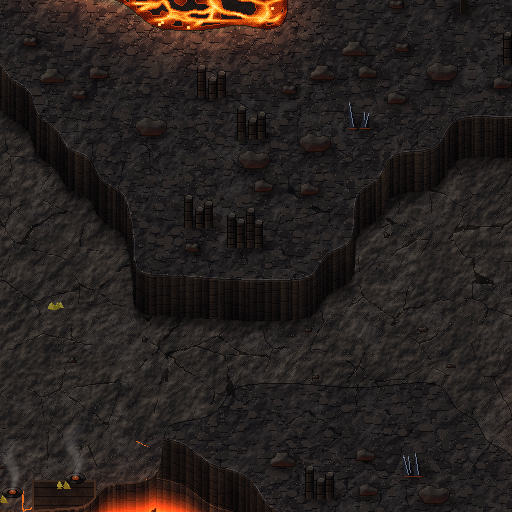
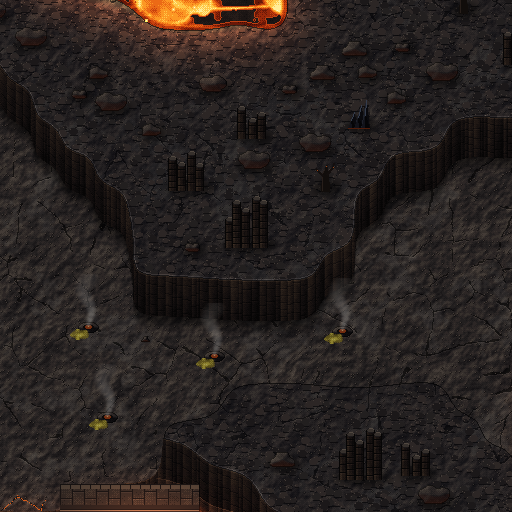
Vulcão: cenário mais organizado
- Pontes de pedra de verdade (lajes, parapeitos e arco sobre a lava) no lugar do bloco de tábuas
- Obsidiana em blocos escuros, sem os 'palitos' brancos; menos espalhada
- Rachaduras acesas finas, enxofre como crosta, chão sem riscos diagonais, bem menos miudezas
- Barreira das passagens agora é um muro de blocos de basalto com fissuras acesas

Claude-Session: https://claude.ai/code/session_019r29ZVD3cqF2PF6pdahmsD

diff --git a/Projeto atualizado/sw.js b/Projeto atualizado/sw.js
@@ -1,4 +1,4 @@
-const CACHE = "ded-web-v4.61.0-vulcao-vivo";
+const CACHE = "ded-web-v4.61.1-vulcao-limpo";
 
 self.addEventListener("install", () => self.skipWaiting());
 

diff --git a/sw.js b/sw.js
@@ -1,4 +1,4 @@
-const CACHE = "ded-web-v4.61.0-vulcao-vivo";
+const CACHE = "ded-web-v4.61.1-vulcao-limpo";
 
 self.addEventListener("install", () => self.skipWaiting());
 

diff --git a/scripts/build_volcano_map.py b/scripts/build_volcano_map.py
@@ -89,18 +89,25 @@ def boulder(seed, w, h):
 
 
 def obsidian(seed, w=22, h=26):
+    """bloco de obsidiana: vidro preto lascado, facetas largas, reflexo discreto"""
     r = np.random.RandomState(seed)
     im = Image.new("RGBA", (w, h))
     d = ImageDraw.Draw(im)
-    for _ in range(r.randint(2, 4)):
-        cx, ch, cw, ln = r.randint(min(6, w // 2 - 1), max(7, w - 6)), r.randint(h // 2, h - 2), r.randint(6, 10), r.uniform(-.25, .25)
+    n = r.randint(2, 4)
+    for i in range(n):
+        cw = r.randint(max(7, w // 3), max(8, w // 2 + 2))
+        cx = int(w * (i + .5) / n + r.randint(-2, 3))
+        ch = r.randint(h // 2, h - 1)
         base = h - 1
-        tip = (cx + ln * ch, base - ch)
-        d.polygon([(cx - cw / 2, base), (cx, base - 2), tip], fill=OBS[3])
-        d.polygon([(cx, base - 2), (cx + cw / 2, base), tip], fill=OBS[1])
-        d.line([(cx, base - 2), tip], fill=OBS[5])
-        d.point([(tip[0], tip[1] + 2)], fill=OBS[6])
-        d.line([(cx - cw / 2, base), (cx + cw / 2, base)], fill=(150, 60, 24))
+        tip = (cx + r.randint(-3, 4), base - ch)
+        L, Rr = (cx - cw / 2, base), (cx + cw / 2, base)
+        mid = (cx + r.randint(-1, 2), base - ch * .45)
+        d.polygon([L, mid, tip], fill=OBS[3])
+        d.polygon([L, mid, (cx, base)], fill=OBS[2])
+        d.polygon([mid, Rr, tip], fill=OBS[1])
+        d.polygon([(cx, base), Rr, mid], fill=OBS[0])
+        d.line([mid, tip], fill=OBS[4])
+        d.line([L, (cx, base), Rr], fill=(120, 44, 18))
     return im
 
 
@@ -149,14 +156,15 @@ def vent(seed):
 
 
 def sulfur(seed):
-    r = np.random.RandomState(seed)
-    im = Image.new("RGBA", (18, 12))
-    d = ImageDraw.Draw(im)
-    for _ in range(6):
-        x, y, s = r.randint(2, 15), r.randint(5, 10), r.randint(2, 4)
-        d.polygon([(x - s, y + 1), (x, y - s - 1), (x + s, y + 1)], fill=SULF[r.randint(1, 3)])
-        d.point([(x, y - s)], fill=SULF[3])
-    return im
+    w, h = 20, 12
+    yy0, xx0 = np.mgrid[0:h, 0:w]
+    n0 = vnoise(h, w, 3, seed)
+    m = (((xx0 - w / 2) / (w / 2)) ** 2 + ((yy0 - h / 2) / (h / 2)) ** 2 < .9 + (n0 - .5) * .6)
+    v = np.clip(.25 + n0 * .8 - ((xx0 - w / 2) ** 2 + (yy0 - h / 2) ** 2) / (w * w / 4) * .4, 0, 1)
+    a0 = np.zeros((h, w, 4), np.uint8)
+    a0[..., :3] = ramp(SULF, v, yy0, xx0)
+    a0[..., 3] = (m * np.clip(.35 + v, 0, 1) * 255).astype(np.uint8)
+    return Image.fromarray(a0)
 
 
 def stump(seed):
@@ -189,13 +197,17 @@ def lava_pool(seed, w=46, h=24):
 
 
 def barrier(horizontal):
-    """obsidiana que brota do chão quando a passagem se tranca"""
-    w, h = (64, 46) if horizontal else (36, 76)
+    """muro de blocos de basalto que sobe do chão quando a passagem se tranca"""
+    w, h = (68, 44) if horizontal else (38, 78)
     im = Image.new("RGBA", (w, h))
-    spots = [(2, 18), (18, 12), (32, 20), (44, 14)] if horizontal else [(2, 2), (6, 22), (0, 42), (8, 52)]
-    for k, (x, y) in enumerate(spots):
-        o = obsidian(100 + k, 22, 30)
-        im.alpha_composite(o, (min(x, w - o.width), min(y, h - o.height)))
+    spots = [(0, 16, 26, 26), (20, 10, 28, 32), (42, 16, 26, 26)] if horizontal else [(2, 0, 34, 26), (0, 22, 38, 30), (2, 48, 34, 28)]
+    for k, (x, y, bw, bh) in enumerate(spots):
+        im.alpha_composite(boulder(600 + k, bw, bh), (x, y))
+    d = ImageDraw.Draw(im)
+    for k, (x, y, bw, bh) in enumerate(spots):
+        cx, cy = x + bw // 2, y + bh // 2
+        d.line([(cx - 4, cy - 2), (cx, cy + 1), (cx + 3, cy - 1), (cx + 5, cy + 3)], fill=(240, 110, 30))
+        d.point([(cx, cy + 1)], fill=(255, 220, 120))
     return im
 
 
@@ -714,14 +726,14 @@ img = np.zeros((H, W, 3), np.float32)
 # — chão: basalto, cinzas, cascalho, rachaduras secas
 rope = np.sin((yy * .9 + np.sin(xx / 9. + n1 * 6) * 5 + n2 * 20) * 1.1)
 flowz = fbm(H, W, 77, ((60, 1.),)) > .6
-bump = ndimage.gaussian_filter(tex, 1) + rope * .02 * flowz
+bump = ndimage.gaussian_filter(tex, 1)
 gy, gx = np.gradient(bump)
 lit = np.clip(.5 - (gx * -.6 + gy * -.8) * 9, 0, 1)
 v = np.clip(.2 + lit * .45 + tex * .35, 0, 1)
 ground = ramp(ROCK, v, yy, xx)
 ashn = fbm(H, W, 11, ((30, .5), (9, .3), (3, .2)))
-ash = (ashn > .6) & (nrs.rand(H, W) < np.clip((ashn - .6) * 6, 0, .85))
-ground[ash] = ground[ash] * .55 + ramp(ASH, np.clip(v[ash] * .8, 0, 1), yy[ash], xx[ash]) * .45
+aw = np.clip((ashn - .58) * 3.2, 0, .42)[..., None]
+ground = ground * (1 - aw) + ramp(ASH, np.clip(v * .8, 0, 1), yy, xx) * aw
 # rachaduras (voronoi deformado), algumas incandescentes perto da lava
 pts = nrs.rand(2600, 2) * [W, H]
 sel = FLOOR | TOP
@@ -738,7 +750,7 @@ ground[peb] = np.array(ROCK[7])
 peb2 = (np.roll(peb, 1, 0) | np.roll(peb, 1, 1)) & ~peb
 ground[peb2] *= .6
 distLV = ndimage.distance_transform_edt(~LV)
-hotc = crk & (distLV < 70) & (fbm(H, W, 18, ((20, 1.),)) > .48) & FLOOR
+hotc = (ee < .45) & crk & (distLV < 56) & (fbm(H, W, 18, ((20, 1.),)) > .55) & FLOOR
 img[:] = ground
 
 # — platô: um pouco mais claro e frio + lábio
@@ -836,25 +848,77 @@ rimA = ndimage.binary_dilation(LV, iterations=4) & FLOOR
 rimB = ndimage.binary_dilation(LV, iterations=1) & FLOOR
 img[rimA] = img[rimA] * .4 + np.array(FACE[0]) * .6
 img[rimB] = (110, 30, 12)
-img[hotc] = (236, 110, 30)
+img[hotc] = (214, 92, 26)
 
 # — pontes de basalto sobre a lava (chão caminhável dentro de um rio)
-BRp = BR & FLOOR
-if BRp.any():
-    bc = ramp(FACE, np.clip(.45 + (tex - .5) * .4, 0, 1), yy, xx)
-    img[BRp] = bc[BRp]
-    for y in range(0, H, 9):
-        row = BRp[y]
-        img[y, row] = np.array(FACE[1])
-    be = BRp & ~ndimage.binary_erosion(BRp, iterations=2)
-    img[be] = np.array(FACE[6])
-    # abaixo da ponte (visto de frente): a borda sul da ponte
-    bf = np.zeros_like(BRp)
-    for k in range(1, 7):
-        s2 = np.zeros_like(BRp)
-        s2[k:] = BRp[:-k]
-        bf |= s2 & LV
-    img[bf] = img[bf] * .2 + np.array(FACE[2]) * .8
+BRp = np.zeros((H, W), bool)
+STONE = [(30, 26, 26), (44, 38, 36), (60, 52, 48), (78, 68, 60), (98, 86, 74), (120, 106, 90)]
+labB, nB = ndimage.label(bridgeT)
+for k in range(1, nB + 1):
+    rr_, cc_ = np.nonzero(labB == k)
+    c0, c1, r0, r1 = cc_.min(), cc_.max(), rr_.min(), rr_.max()
+    vertical = (r1 - r0) >= (c1 - c0)
+    if vertical:
+        x0, x1 = c0 * T + 2, (c1 + 1) * T - 2
+        band = LZ[:, x0:x1].any(1)
+        ys = np.nonzero(band[r0 * T - 3 * T:(r1 + 1) * T + 3 * T])[0] + r0 * T - 3 * T
+        if not len(ys):
+            continue
+        y0, y1 = ys.min() - 8, ys.max() + 10
+    else:
+        y0, y1 = r0 * T + 4, (r1 + 1) * T - 2
+        band = LZ[y0:y1, :].any(0)
+        xs = np.nonzero(band[c0 * T - 3 * T:(c1 + 1) * T + 3 * T])[0] + c0 * T - 3 * T
+        if not len(xs):
+            continue
+        x0, x1 = xs.min() - 8, xs.max() + 8
+    sub_y, sub_x = np.mgrid[y0:y1, x0:x1]
+    # tabuleiro: lajes de pedra desencontradas
+    v = .45 + (tex[y0:y1, x0:x1] - .5) * .35
+    deck = ramp(STONE, np.clip(v, 0, 1), sub_y, sub_x)
+    if vertical:
+        joint_r = ((sub_y - y0) % 12 == 0)
+        joint_c = (((sub_x - x0) + ((sub_y - y0) // 12) * 9) % 18 == 0)
+    else:
+        joint_c = ((sub_x - x0) % 12 == 0)
+        joint_r = (((sub_y - y0) + ((sub_x - x0) // 12) * 7) % 14 == 0)
+    deck[joint_r | joint_c] = np.array(STONE[0])
+    hl = np.roll(joint_r | joint_c, 1, 0) & ~(joint_r | joint_c)
+    deck[hl] = np.minimum(255, deck[hl] * 1.25)
+    img[y0:y1, x0:x1] = deck
+    BRp[y0:y1, x0:x1] = True
+    # parapeitos laterais
+    if vertical:
+        for xa, xb, lit in ((x0, x0 + 5, True), (x1 - 5, x1, False)):
+            img[y0:y1, xa:xb] = np.array(STONE[4 if lit else 1])
+            img[y0:y1, xa] = np.array(STONE[0])
+            img[y0:y1, xb - 1] = np.array(STONE[0])
+            for yb in range(y0, y1, 10):
+                img[yb, xa:xb] = np.array(STONE[0])
+        # face frontal com arco sobre a lava
+        fy0, fy1 = y1, min(H, y1 + 14)
+        fx = np.arange(x0, x1)
+        img[fy0:fy1, x0:x1] = np.array(STONE[1])
+        cx_, rw = (x0 + x1) / 2, (x1 - x0) / 2 - 7
+        for yy2 in range(fy0, fy1):
+            t = (yy2 - fy0) / 14
+            inside = np.abs(fx - cx_) < rw * np.sqrt(max(0, t * 1.4 - .1))
+            img[yy2, x0:x1][inside] = img[yy2, x0:x1][inside] * .3 + np.array([230, 90, 24]) * .7 * t
+        img[fy0, x0:x1] = np.array(STONE[5])
+        BRp[fy0:fy1, x0:x1] = True
+    else:
+        img[y0:y0 + 5, x0:x1] = np.array(STONE[4])
+        img[y0, x0:x1] = np.array(STONE[0])
+        img[y1 - 5:y1, x0:x1] = np.array(STONE[1])
+        img[y1 - 1, x0:x1] = np.array(STONE[0])
+        for xb in range(x0, x1, 10):
+            img[y0:y0 + 5, xb] = np.array(STONE[0])
+        fy0, fy1 = y1, min(H, y1 + 10)
+        img[fy0:fy1, x0:x1] = np.array(STONE[1])
+        img[fy0, x0:x1] = np.array(STONE[5])
+        BRp[fy0:fy1, x0:x1] = True
+LV &= ~BRp
+FC &= ~BRp
 # — correntes rasas de magma no chão (caminháveis, queimam)
 sm = Image.new("L", (W, H), 0)
 sd = ImageDraw.Draw(sm)
@@ -868,7 +932,7 @@ for pl, hw in STREAMS:
     for (a0, b0), (a1, b1) in zip(pts, pts[1:]):
         sd.line([(a0, b0), (a1, b1)], fill=255, width=int(hw * 1.5))
 STR = (ndimage.gaussian_filter(np.asarray(sm, np.float32) / 255, 3) + (fbm(H, W, 95, ((10, .6), (4, .4))) - .5) * .45) > .5
-STR &= FLOOR & ~BR
+STR &= FLOOR & ~BR & ~BRp
 sin_ = ndimage.distance_transform_edt(STR)
 heat2 = np.clip(.3 + sin_ / 6 * .55 + (fbm(H, W, 96, ((8, .6), (3, .4))) - .5) * .5, 0, 1)
 sl = ramp(LAVA, heat2, yy, xx)
@@ -924,7 +988,7 @@ for k, n in (("vc-bigcolumns", 10), ("vc-columns3", 16), ("vc-columns2", 16)):
             if place(k, x, y, False):
                 n -= 1
 EDGE = [("vc-boulder1", 5), ("vc-boulder2", 5), ("vc-boulder3", 4), ("vc-boulder4", 5), ("vc-boulder5", 4),
-        ("vc-obsidian1", 3), ("vc-obsidian2", 3), ("vc-obsidian3", 2), ("vc-columns1", 4), ("vc-columns2", 3), ("vc-stump", 2)]
+        ("vc-obsidian1", 1), ("vc-obsidian2", 1), ("vc-obsidian3", 1), ("vc-columns1", 4), ("vc-columns2", 3), ("vc-stump", 2)]
 ek, ew = zip(*EDGE)
 cand = np.argwhere(TOP & (distP > 10) & (distP < 30))
 nrs.shuffle(cand)
@@ -938,12 +1002,12 @@ for _ in range(7000):
     if base_ok(x, y, PROPS[k], 50):
         place(k, x, y, False)
 # miudezas no chão
-small = [boulder(200 + i, 8 + i % 3 * 2, 6 + i % 2 * 2) for i in range(6)] + [sulfur(300), obsidian(301, 16, 14)]
-for _ in range(520):
+small = [boulder(200 + i, 8 + i % 3 * 2, 6 + i % 2 * 2) for i in range(6)]
+for _ in range(170):
     im = rnd.choice(small)
     x, y = rnd.randrange(W - 40), rnd.randrange(H - 40)
     if walk[y // T, x // T] and walk[(y + im.height) // T, (x + im.width) // T] and FLOOR[y, x] and FLOOR[y + im.height, x + im.width] \
-            and not BR[y, x] and distLV[y, x] > 12:
+            and not BRp[y, x] and distLV[y, x] > 12:
         canvas.alpha_composite(im, (x, y))
 # fumarolas com vapor nos platôs e pocinhas de enxofre
 steam = Image.new("RGBA", (34, 56))
